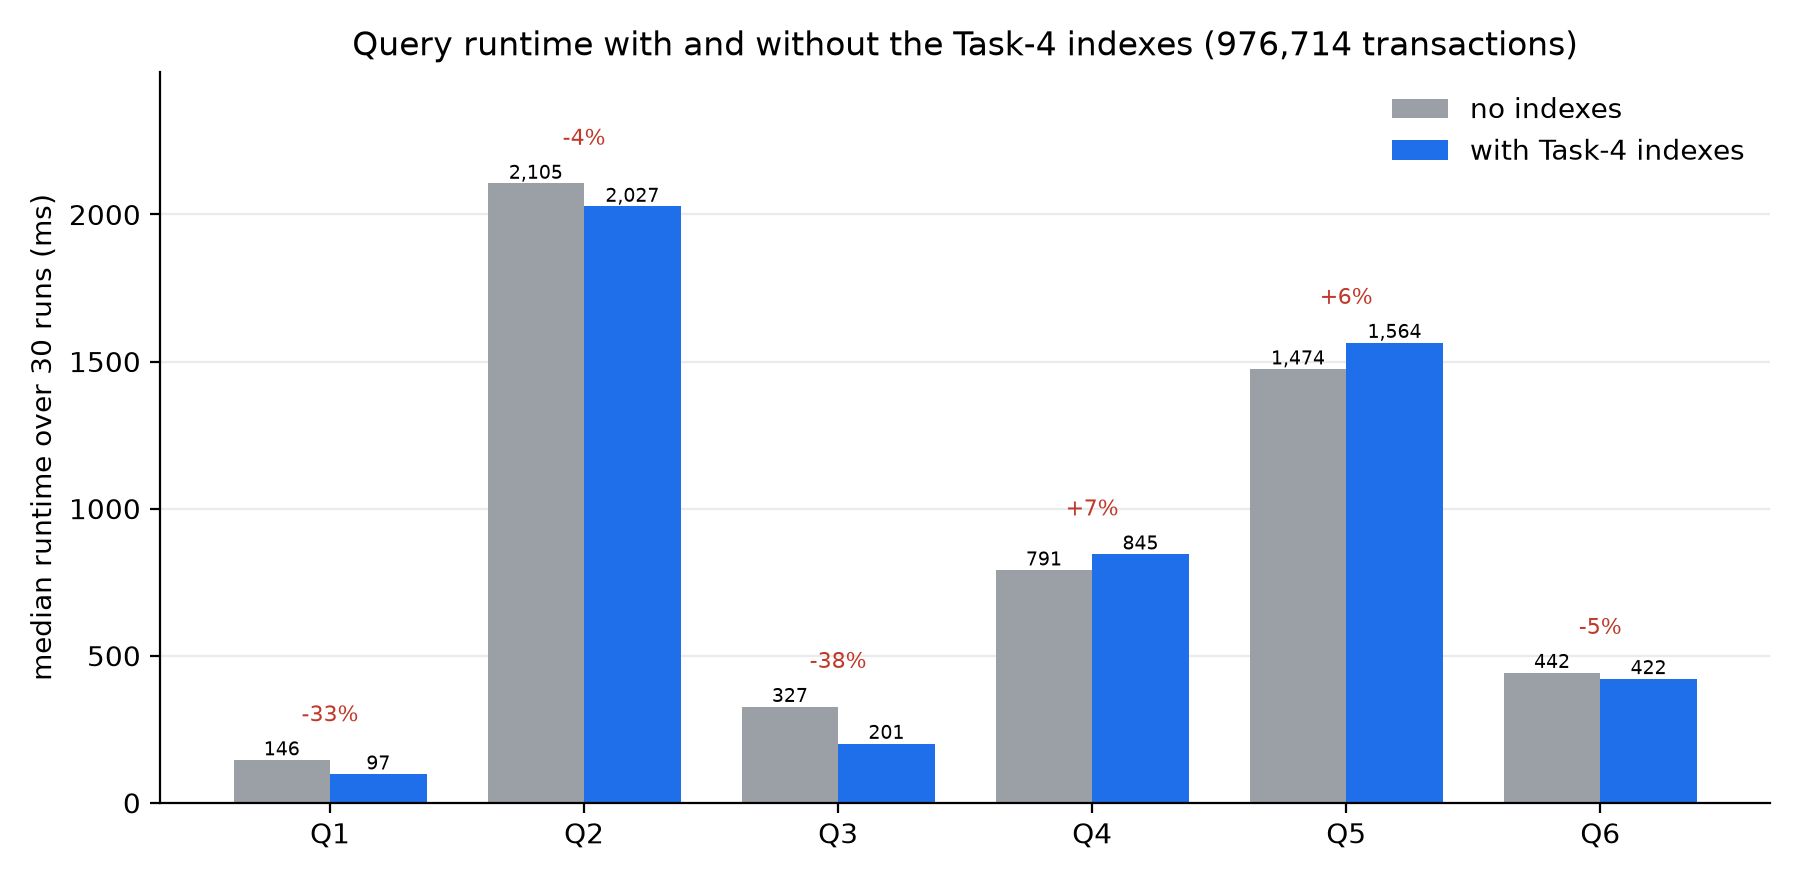
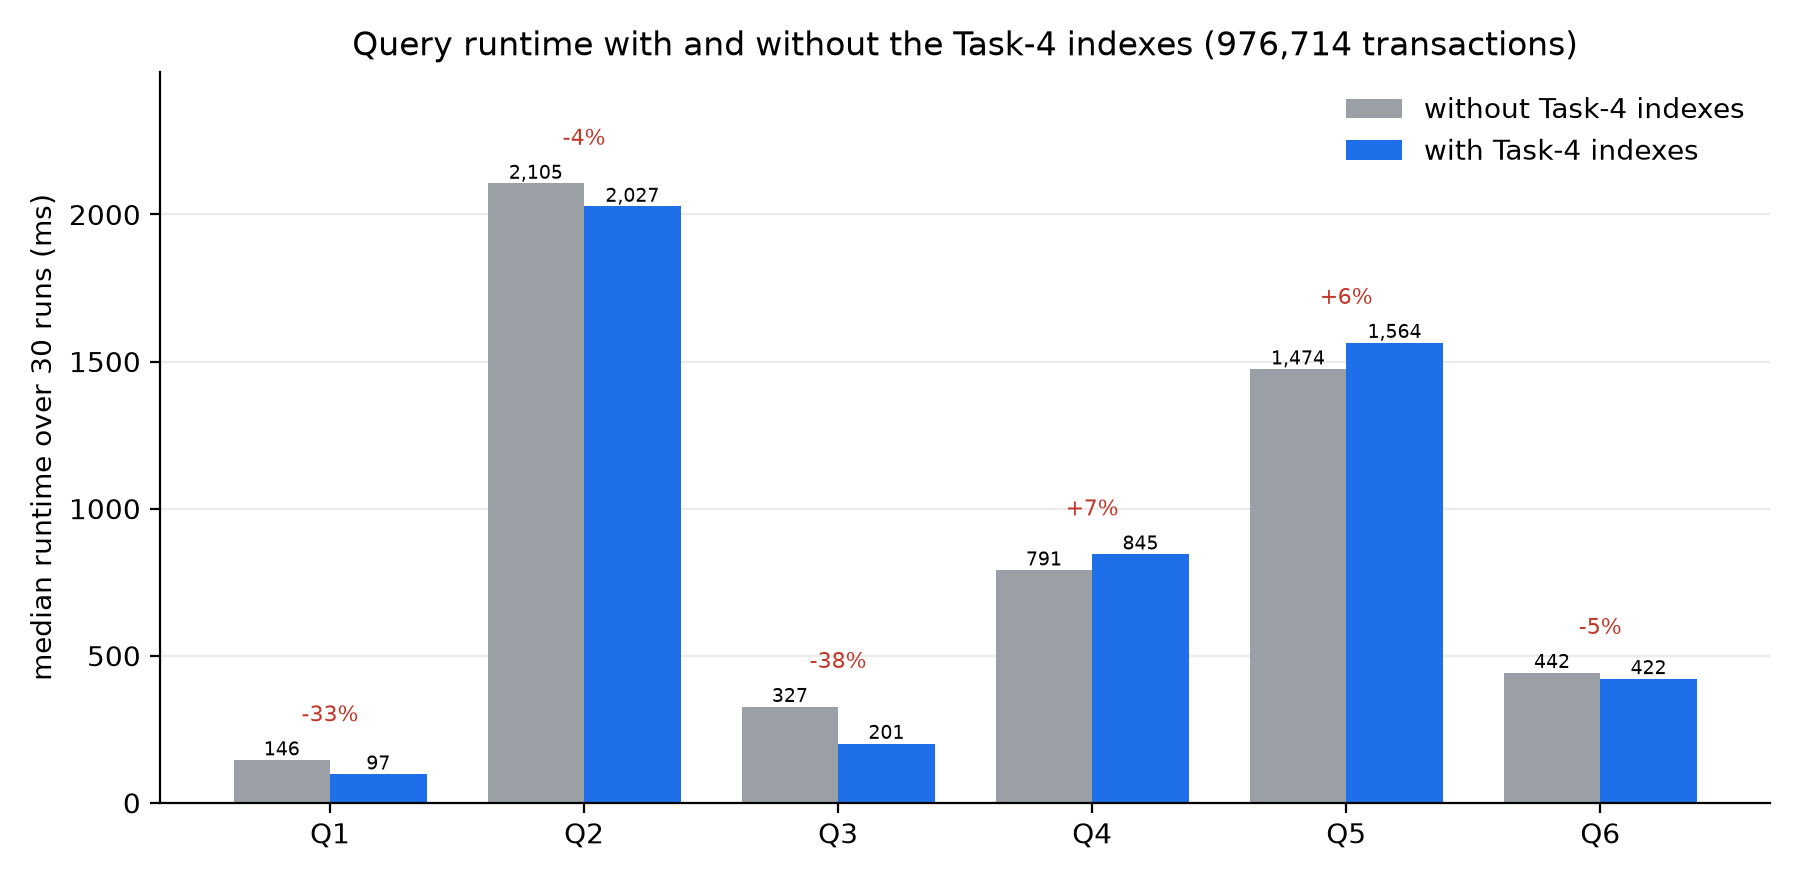
Align Task-4 wording and distance-band comments with the 500/1000 m bands

Changed region(s): [[0.7467, 0.092, 0.9644, 0.1841]]

diff --git a/scripts/queries/run_index_benchmark.py b/scripts/queries/run_index_benchmark.py
@@ -134,7 +134,7 @@ def plot(grouped: dict[tuple[str, str], list[float]]) -> None:
 
     fig, ax = plt.subplots(figsize=(9, 4.4), dpi=200)
     width = 0.38
-    for offset, values, label, colour in ((-width / 2, base, "no indexes", "#9aa0a6"),
+    for offset, values, label, colour in ((-width / 2, base, "without Task-4 indexes", "#9aa0a6"),
                                           (width / 2, idx, "with Task-4 indexes", "#1f6feb")):
         bars = ax.bar([i + offset for i in range(len(names))], values, width,
                       label=label, color=colour)
